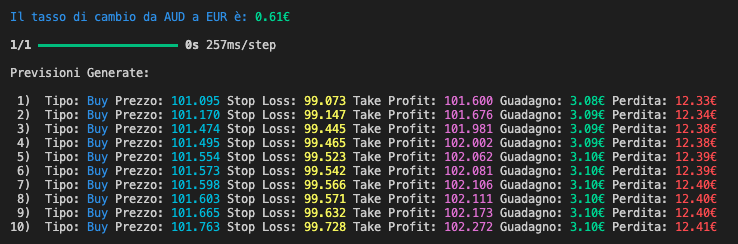
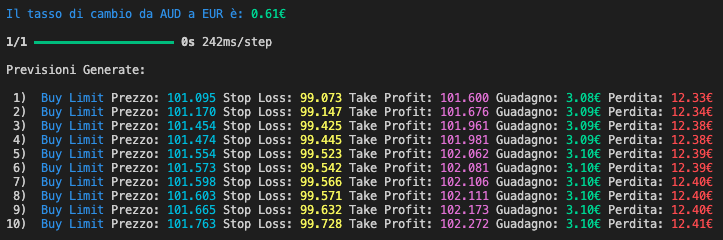
add order class type

diff --git a/forecast_bot.py b/forecast_bot.py
@@ -194,6 +194,8 @@ def run_trading_model():
     for i, pred in enumerate(predictions.flatten()):
         entry_price = round(df['Close'].iloc[-N_PREDICTIONS + i], 3)
         order_type = "Buy" if pred == 1 else "Sell"
+        order_class = "Limit" if pred == 1 else "Stop"
+
         
         stop_loss = round(entry_price * (0.98 if order_type == "Buy" else 1.02), 3)
         take_profit = round(entry_price * (1 + MARGIN_PROFIT if order_type == "Buy" else 1 - MARGIN_PROFIT), 3)
@@ -208,7 +210,7 @@ def run_trading_model():
         
         results.append({
             'Data Previsione': data_formatted,
-            'Tipo': order_type,
+            'Tipo': f"{order_type} {order_class}",
             'Prezzo': f"{entry_price:.3f}",
             'Stop Loss': f"{stop_loss:.3f}",
             'Take Profit': f"{take_profit:.3f}",
@@ -223,7 +225,7 @@ def run_trading_model():
     for result in results:
         logging.info(f"Data: {result['Data Previsione']}, Tipo: {result['Tipo']}, Prezzo: {result['Prezzo']}, Stop Loss: {result['Stop Loss']}, Take Profit: {result['Take Profit']}, Guadagno: {result['Guadagno']}, Perdita: {result['Perdita']}")
 
-        type_colored = f"\033[94m{result['Tipo']}\033[0m" if result['Tipo'] == "Buy" else f"\033[91m{result['Tipo']}\033[0m"
+        type_colored = f"\033[94m{result['Tipo']}\033[0m" if result['Tipo'] == "Buy" or result['Tipo'] == "Buy Limit" or result['Tipo'] == "Buy Stop" else f"\033[91m{result['Tipo']}\033[0m"
         entry_price_colored = f"\033[96m{result['Prezzo']}\033[0m"
         stop_loss_colored = f"\033[93m{result['Stop Loss']}\033[0m"
         take_profit_colored = f"\033[95m{result['Take Profit']}\033[0m"
@@ -231,7 +233,7 @@ def run_trading_model():
         perdita_colored = f"\033[91m{result['Perdita']}\033[0m"
 
         print(
-            f"{row_index:>2})  Tipo: {type_colored:<8} Prezzo: {entry_price_colored:<8} Stop Loss: {stop_loss_colored:<8} "
+            f"{row_index:>2})  {type_colored:<8} Prezzo: {entry_price_colored:<8} Stop Loss: {stop_loss_colored:<8} "
             f"Take Profit: {take_profit_colored:<8} Guadagno: {guadagno_colored:<10} Perdita: {perdita_colored:<10}"
         )
         
